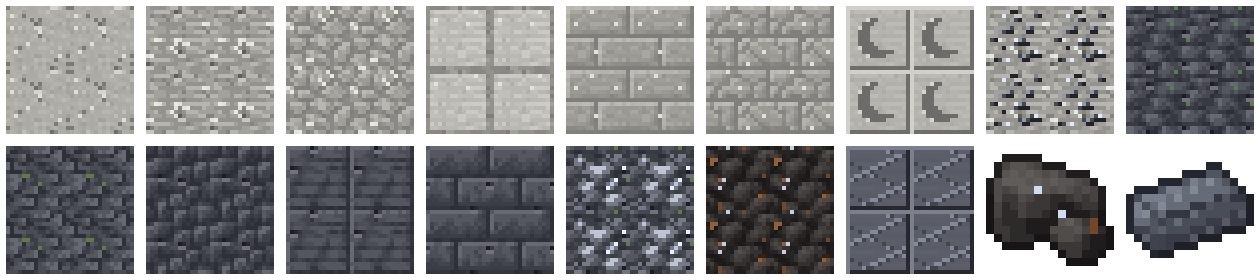
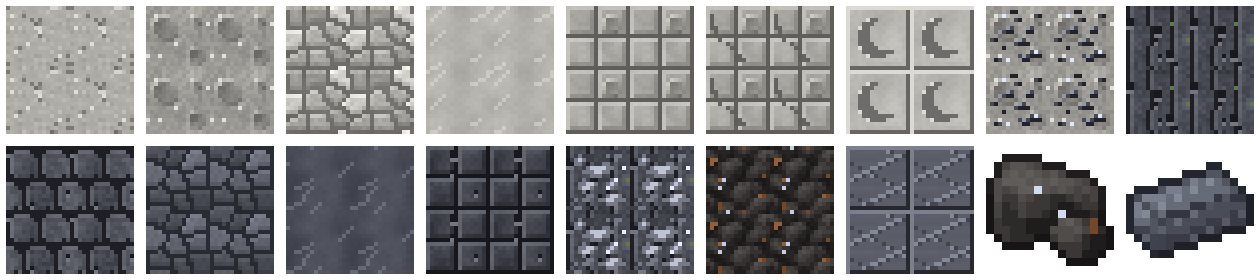
Moon stone textures drawn from scratch, no vanilla templates
- Moonstone: pale rock pocked with shaded impact craters and feldspar flecks
- Cobbled: lunar breccia, angular fragments of mixed tones welded in a darker matrix
- Polished: smooth stone with faint plagioclase crystal blades; bricks are bevelled tiles (one with a crater),
  cracked bricks carry jagged fractures, chiseled keeps the crescent on the new stone
- Deep moonstone: vesicular basalt split into columns, with a hexagonal column pattern on top; dark breccia,
  glassy polished basalt and basalt tiles for the rest
Dust and meteor iron are unchanged.

Claude-Session: https://claude.ai/code/session_01M5QtgiQGYPBXfdb72XCowG

Changed region(s): [[0.0929, 0.0, 0.681, 0.4857], [0.0, 0.5143, 0.5571, 1.0], [0.7738, 0.0, 1.0, 0.4857]]

diff --git a/tools/moon_assets.py b/tools/moon_assets.py
@@ -155,6 +155,138 @@ BASALT = ((46, 48, 56), (102, 104, 114))                      # mare basalt: dar
 OLIVINE = (98, 122, 72)
 IRON = ((30, 32, 40), (120, 126, 140))                        # dark gunmetal
 
+
+# ---------------------------------------------------------------- original moon stone (no vanilla template)
+def vnoise(seed, scale=4):
+    """Smooth value noise, 0..1, wrapping at 16 px (a coarse grid of random heights, blended)."""
+    r = random.Random(seed); n = 16 // scale
+    g = [[r.random() for _ in range(n)] for _ in range(n)]
+    out = [[0.0] * 16 for _ in range(16)]
+    for y in range(16):
+        for x in range(16):
+            gx, gy = x / scale, y / scale; x0, y0 = int(gx) % n, int(gy) % n; x1, y1 = (x0 + 1) % n, (y0 + 1) % n
+            fx, fy = gx - int(gx), gy - int(gy); fx, fy = fx * fx * (3 - 2 * fx), fy * fy * (3 - 2 * fy)
+            a = g[y0][x0] + (g[y0][x1] - g[y0][x0]) * fx; b = g[y1][x0] + (g[y1][x1] - g[y1][x0]) * fx
+            out[y][x] = a + (b - a) * fy
+    return out
+
+def rock(seed, dark, light, grain=0.35):
+    """A stone surface: soft value noise for broad tone, plus per-pixel grain."""
+    r = random.Random(seed); n1, n2 = vnoise(seed, 8), vnoise(seed + 1, 4)
+    img = Image.new("RGBA", (16, 16)); px = img.load()
+    for y in range(16):
+        for x in range(16):
+            t = 0.55 * n1[y][x] + 0.45 * n2[y][x] + (r.random() - 0.5) * grain
+            t = min(1, max(0, t))
+            px[x, y] = tuple(int(dark[k] + (light[k] - dark[k]) * t) for k in range(3)) + (255,)
+    return img
+
+def shade_px(c, k): return tuple(max(0, min(255, int(v * k))) for v in c[:3]) + (255,)
+
+def craters(img, spots):
+    """Impact craters: a bowl shaded from dark (top-left, in shadow) to light (bottom-right, catching the sun), and a
+    raised rim lit on the top-left and shadowed on the bottom-right."""
+    px = img.load()
+    for cx, cy, rad in spots:
+        for dy in range(-rad - 2, rad + 3):
+            for dx in range(-rad - 2, rad + 3):
+                d = (dx * dx + dy * dy) ** 0.5; x, y = int(cx + dx) % 16, int(cy + dy) % 16
+                lean = (dx + dy) / (rad * 2.0)                                       # -1 top-left .. +1 bottom-right
+                if d <= rad - 0.5: px[x, y] = shade_px(px[x, y], 0.82 + 0.16 * lean)
+                elif d <= rad + 0.7: px[x, y] = shade_px(px[x, y], 1.14 - 0.26 * (lean + 0.5))
+    return img
+
+def breccia(seed, matrix, shard_dark, shard_light, n=8):
+    """Lunar breccia: angular fragments of different tones welded together. Each pixel belongs to its nearest seed
+    point (wrapping), which carves the block into sharp polygons; the seams between them are the dark matrix, and
+    each fragment is lit along its upper edge."""
+    r = random.Random(seed); c = 16 / 3                                    # a jittered 3x3 grid: evenly spread fragments
+    pts = [((i + r.uniform(0.15, 0.85)) * c, (j + r.uniform(0.15, 0.85)) * c) for i in range(3) for j in range(3)]
+    n = len(pts); tones = [0.35 + 0.65 * ((k * 0.618 + r.random() * 0.3) % 1) for k in range(n)]
+    def owner(x, y):
+        best = None
+        for i, (px_, py_) in enumerate(pts):
+            dx = min(abs(x - px_), 16 - abs(x - px_)); dy = min(abs(y - py_), 16 - abs(y - py_))
+            d = dx * dx * 1.0 + dy * dy * 1.3
+            if best is None or d < best[0]: best = (d, i)
+        return best[1]
+    own = [[owner(x + 0.5, y + 0.5) for x in range(16)] for y in range(16)]
+    img = rock(seed, shade_px(matrix, 0.8)[:3], matrix, 0.15); px = img.load(); g = random.Random(seed + 7)
+    for y in range(16):
+        for x in range(16):
+            i = own[y][x]
+            if own[y][(x + 1) % 16] != i or own[(y + 1) % 16][x] != i: continue          # seam: leave the matrix
+            col = tuple(int(shard_dark[k] + (shard_light[k] - shard_dark[k]) * tones[i]) for k in range(3))
+            k = 1.14 if own[(y - 1) % 16][x] != i else 0.88 if own[(y + 2) % 16][x] != i else 1.0
+            px[x, y] = shade_px(col + (255,), k * (0.95 + g.random() * 0.1))
+    return img
+
+def laths(img, seed, col, n=5):
+    """Long thin crystal blades in polished stone (plagioclase laths): faint, all leaning roughly the same way."""
+    r = random.Random(seed); px = img.load()
+    for _ in range(n):
+        x, y = r.randrange(16), r.randrange(16); step = r.choice((1, 2))
+        for k in range(r.randint(3, 5)):
+            xx, yy = (x + k) % 16, (y - k // step) % 16
+            px[xx, yy] = tuple(int(a * 0.55 + b * 0.45) for a, b in zip(px[xx, yy][:3], col)) + (255,)
+    return img
+
+def tiles(img, size, light, dark, mortar):
+    """Square tiles with a bevel: lit top-left edges, shadowed bottom-right, and a thin mortar line."""
+    px = img.load()
+    for y in range(16):
+        for x in range(16):
+            tx, ty = x % size, y % size
+            if tx == size - 1 or ty == size - 1: px[x, y] = mortar + (255,)
+            elif tx == 0 or ty == 0: px[x, y] = tuple(int((a + b) / 2) for a, b in zip(px[x, y][:3], light)) + (255,)
+            elif tx == size - 2 or ty == size - 2: px[x, y] = tuple(int((a + b) / 2) for a, b in zip(px[x, y][:3], dark)) + (255,)
+    return img
+
+def cracks(img, seed, col, n=3):
+    """Jagged fractures: each wanders mostly one way, with the odd kink and a short branch."""
+    r = random.Random(seed); px = img.load()
+    for _ in range(n):
+        x, y = r.randrange(16), r.randrange(16); dx, dy = r.choice(((1, 0), (0, 1), (1, 1), (1, -1)))
+        for k in range(r.randint(5, 9)):
+            px[x % 16, y % 16] = col + (255,)
+            if r.random() < 0.35: x += dy; y += dx                                   # a kink sideways
+            x += dx; y += dy
+            if k == 3 and r.random() < 0.5: px[(x + dy) % 16, (y + dx) % 16] = col + (255,)
+    return img
+
+def vesicles(img, seed, n, hole, rim):
+    """Vesicular basalt: round gas bubbles, some 1 px, some 2x2, each with a lit lower lip."""
+    r = random.Random(seed); px = img.load()
+    for _ in range(n):
+        x, y = r.randrange(16), r.randrange(16); big = r.random() < 0.4
+        cells = [(0, 0), (1, 0), (0, 1), (1, 1)] if big else [(0, 0)]
+        for dx, dy in cells: px[(x + dx) % 16, (y + dy) % 16] = hole + (255,)
+        lip = 2 if big else 1
+        for dx in range(lip): px[(x + dx) % 16, (y + lip) % 16] = rim + (255,)
+    return img
+
+def columns_side(img, dark, light):
+    """Basalt columns seen from the side: vertical joints every few pixels with a lit face beside each."""
+    px = img.load()
+    for x in (0, 5, 11):
+        for y in range(16):
+            xx = x + (1 if (y // 5) % 2 and x == 5 else 0)
+            px[xx % 16, y] = dark + (255,); px[(xx + 1) % 16, y] = tuple(int((a + b) / 2) for a, b in zip(px[(xx + 1) % 16, y][:3], light)) + (255,)
+    return img
+
+def hex_top(img, dark, light):
+    """Basalt columns seen from the top: a tiling net of hexagons (two per row, offset), with lit inner edges."""
+    px = img.load()
+    for y in range(16):
+        for x in range(16):
+            # a hex grid with cells 8 wide and 8 tall, odd rows shifted by 4: tiles at 16
+            row = y // 8; ox = 4 if row % 2 else 0; cx = (x + ox) % 8; cy = y % 8
+            edge = cy == 0 or (cy in (1, 2) and cx in (0, 7)) or (cy >= 3 and cx == 0) or (cy in (6, 7) and cx in (0, 7) and False)
+            slant = (cy == 1 and cx in (1, 6)) or (cy == 7 and cx in (1, 6))
+            if edge or slant: px[x, y] = dark + (255,)
+            elif cy == 1 or cx == 1: px[x, y] = tuple(int((a + b) / 2) for a, b in zip(px[x, y][:3], light)) + (255,)
+    return img
+
 def textures():
     b, i = os.path.join(TEX, "block"), os.path.join(TEX, "item")
     cb = lambda n: os.path.join(CLASSIC, "block", n + ".png")
@@ -165,24 +297,25 @@ def textures():
     dots(dust, r(1), 12, (124, 122, 116)); dots(dust, r(2), 6, (224, 222, 216)); pits(dust, r(3), 2, (112, 110, 106), (214, 212, 206))
     dust.save(os.path.join(b, "moon_dust.png"))
     # moonstone: pale stone with white feldspar crystals and pockmarks
-    ms = mapped(cb("stone"), *STONE, contrast=0.8)
-    dots(ms, r(4), 7, FELDSPAR, size=2); pits(ms, r(5), 3, (96, 94, 92), (200, 198, 192))
+    ms = craters(rock(40, *STONE), ((4, 5, 3), (12, 12, 2), (12, 3, 1)))
+    dots(ms, r(4), 5, FELDSPAR)
     ms.save(os.path.join(b, "moonstone.png"))
-    dots(mapped(cb("cobblestone"), *STONE), r(6), 5, FELDSPAR, size=2).save(os.path.join(b, "cobbled_moonstone.png"))
-    dots(mapped(cb("smooth_stone"), STONE[0], (204, 202, 196)), r(7), 3, FELDSPAR).save(os.path.join(b, "polished_moonstone.png"))
-    for src, dst, k in (("stone_bricks", "moonstone_bricks", 8), ("cracked_stone_bricks", "cracked_moonstone_bricks", 9)):
-        dots(mapped(cb(src), *STONE), r(k), 4, FELDSPAR).save(os.path.join(b, dst + ".png"))
-    chis = frame(mapped(cb("smooth_stone"), STONE[0], (204, 202, 196), contrast=0.6), (210, 208, 202), (112, 110, 106))
-    crescent(chis, (110, 108, 104), (214, 212, 206)).save(os.path.join(b, "chiseled_moonstone_bricks.png"))
+    breccia(41, STONE[0], (110, 108, 104), (216, 214, 208)).save(os.path.join(b, "cobbled_moonstone.png"))
+    laths(rock(42, (166, 164, 158), (206, 204, 198), 0.15), 43, (230, 230, 226)).save(os.path.join(b, "polished_moonstone.png"))
+    bricks = tiles(rock(44, (150, 148, 142), (198, 196, 190), 0.2), 8, (220, 218, 212), (120, 118, 112), (96, 94, 90))
+    craters(bricks, ((11, 4, 2),)); bricks.save(os.path.join(b, "moonstone_bricks.png"))
+    cracks(bricks.copy(), 45, (100, 98, 94), 3).save(os.path.join(b, "cracked_moonstone_bricks.png"))
+    chis = frame(rock(46, (160, 158, 152), (204, 202, 196), 0.15), (220, 218, 212), (104, 102, 98))
+    crescent(chis, (110, 108, 104), (222, 220, 214)).save(os.path.join(b, "chiseled_moonstone_bricks.png"))
     # meteor iron ore: dark metal nuggets in moonstone
     ore(ms, cb("stone"), cb("iron_ore"), (34, 34, 40), (70, 72, 82), (146, 152, 166), (222, 232, 255), 10).save(os.path.join(b, "meteor_iron_ore.png"))
     # deep moonstone: dark basalt in vanilla deepslate's layers, with gas pockets and a little olivine
-    deep = mapped(dt("deepslate"), *BASALT); pits(deep, r(11), 4, (28, 28, 34), (112, 114, 124)); dots(deep, r(12), 3, OLIVINE)
-    deep.save(os.path.join(b, "deep_moonstone.png"))
-    dots(mapped(dt("deepslate_top"), *BASALT), r(13), 3, OLIVINE).save(os.path.join(b, "deep_moonstone_top.png"))
-    for src, dst, k in (("cobbled_deepslate", "cobbled_deep_moonstone", 14), ("polished_deepslate", "polished_deep_moonstone", 15),
-                        ("deepslate_bricks", "deep_moonstone_bricks", 16)):
-        pits(mapped(dt(src), *BASALT), r(k), 2, (28, 28, 34), (112, 114, 124)).save(os.path.join(b, dst + ".png"))
+    deep = vesicles(columns_side(rock(50, *BASALT), (30, 30, 36), (118, 120, 130)), 51, 6, (24, 24, 30), (116, 118, 128))
+    dots(deep, r(12), 2, OLIVINE); deep.save(os.path.join(b, "deep_moonstone.png"))
+    vesicles(hex_top(rock(52, *BASALT), (30, 30, 36), (118, 120, 130)), 53, 3, (24, 24, 30), (116, 118, 128)).save(os.path.join(b, "deep_moonstone_top.png"))
+    breccia(54, BASALT[0], (40, 42, 50), (118, 120, 132)).save(os.path.join(b, "cobbled_deep_moonstone.png"))
+    laths(rock(55, (56, 58, 68), (92, 94, 106), 0.12), 56, (140, 146, 162), 5).save(os.path.join(b, "polished_deep_moonstone.png"))
+    vesicles(tiles(rock(57, *BASALT, 0.2), 8, (124, 126, 136), (34, 34, 40), (22, 22, 28)), 58, 3, (24, 24, 30), (116, 118, 128)).save(os.path.join(b, "deep_moonstone_bricks.png"))
     ore(deep, dt("deepslate"), dt("deepslate_iron_ore"), (60, 62, 70), (118, 122, 134), (190, 196, 212), (232, 240, 255), 17).save(os.path.join(b, "deep_meteor_iron_ore.png"))
     # meteor iron: cut-meteorite Widmanstatten bands in a bevelled block; raw is black fusion crust with rust
     blk = mapped(cb("iron_block"), (70, 72, 82), (104, 108, 120), contrast=0.4)
